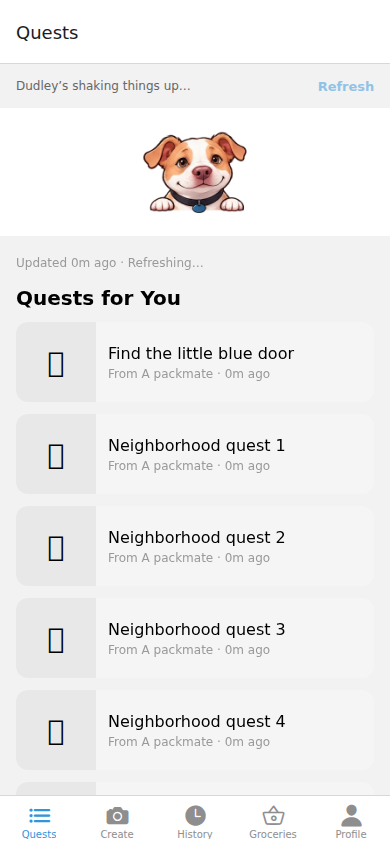
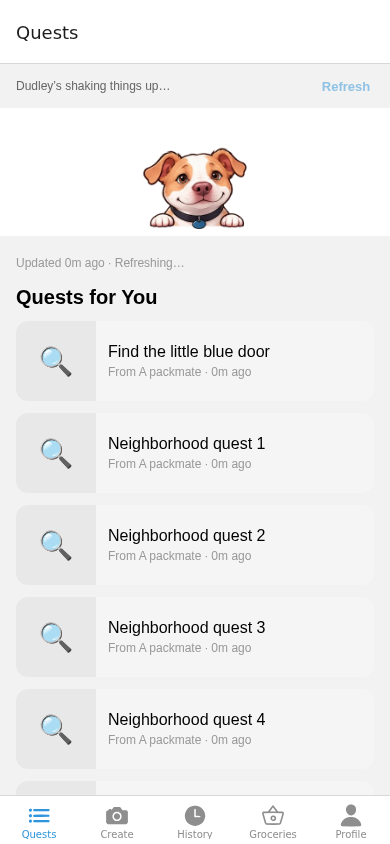
[UI] Dudley rises out from behind the list on pull-to-refresh (SHE-138) (#22)
* [UI] Dudley rises out from behind the list on pull-to-refresh (SHE-138)

* Anchor Dudley to the list edge so his paws rest on it at full pull

* docs(agents): require a preview image/recording in PR descriptions for UI changes

diff --git a/components/dudley/DudleyRefresh.tsx b/components/dudley/DudleyRefresh.tsx
@@ -138,10 +138,15 @@ export function DudleyRefresh({ onRefresh, disabled = false, hidden = false, ges
         </Pressable>
       </View>}
       <Animated.View testID="dudley-refresh-reveal" pointerEvents="none" style={[styles.reveal, { height, backgroundColor: c.background }]}>
-        <Animated.View style={{ position: 'absolute', alignSelf: 'center', top: height.interpolate({ inputRange: [0, 128, 164], outputRange: [-32, 0, 18], extrapolate: 'clamp' }) }}>
+        {/* Dudley climbs and grows while the list slides down, so he rises out from behind its edge;
+            once fully out his paws ride on the list edge like a shelf. */}
+        <Animated.View style={{ position: 'absolute', alignSelf: 'center', bottom: height.interpolate({ inputRange: [0, 128], outputRange: [-160, 0], extrapolate: 'clamp' }) }}>
           <Animated.View testID={`dudley-refresh-frame-${frame}`} style={{ width: SIZE, height: SIZE, overflow: 'hidden', transform: [
             { translateY: pop.interpolate({ inputRange: [0, 1], outputRange: [0, -14] }) },
-            { scale: pop.interpolate({ inputRange: [0, 1], outputRange: [1, 1.12] }) },
+            { scale: Animated.multiply(
+              height.interpolate({ inputRange: [0, 128], outputRange: [0.86, 1], extrapolate: 'clamp' }),
+              pop.interpolate({ inputRange: [0, 1], outputRange: [1, 1.12] }),
+            ) },
           ] }}>
             <Image source={atlas} accessible={false} contentFit="fill" transition={0} style={{ position: 'absolute', width: SIZE * 4, height: SIZE * 2, left: -(frame % 4) * SIZE, top: -Math.floor(frame / 4) * SIZE }} />
           </Animated.View>

diff --git a/docs/agents/project-state.md b/docs/agents/project-state.md
@@ -115,9 +115,9 @@ Residual risk: <what is still unverified> | none
 Rules:
 
 - Test output is mandatory: the command run and its result, not a claim that it passed.
-- Any UI-visible change carries browser screenshots or native/device screenshots, as appropriate to the changed surface. The capture recipe is in
+- Any UI-visible change carries browser screenshots or native/device screenshots, as appropriate to the changed surface, and the PR description itself embeds a preview image (or GIF/recording for animations and interactions) so reviewers see the result without opening the app. The capture recipe is in
   [`../testing.md`](../testing.md).
-- Video is optional and welcome.
+- Video is optional and welcome; for animated or gesture-driven changes a GIF/recording is expected.
 - "Same body" means the same lines, not the same bytes: images are uploaded to each host
   (see [`issue-tracker.md`](./issue-tracker.md)), so the `Screenshots:` links differ
   between the pull request and the issue. Nothing else may differ.
